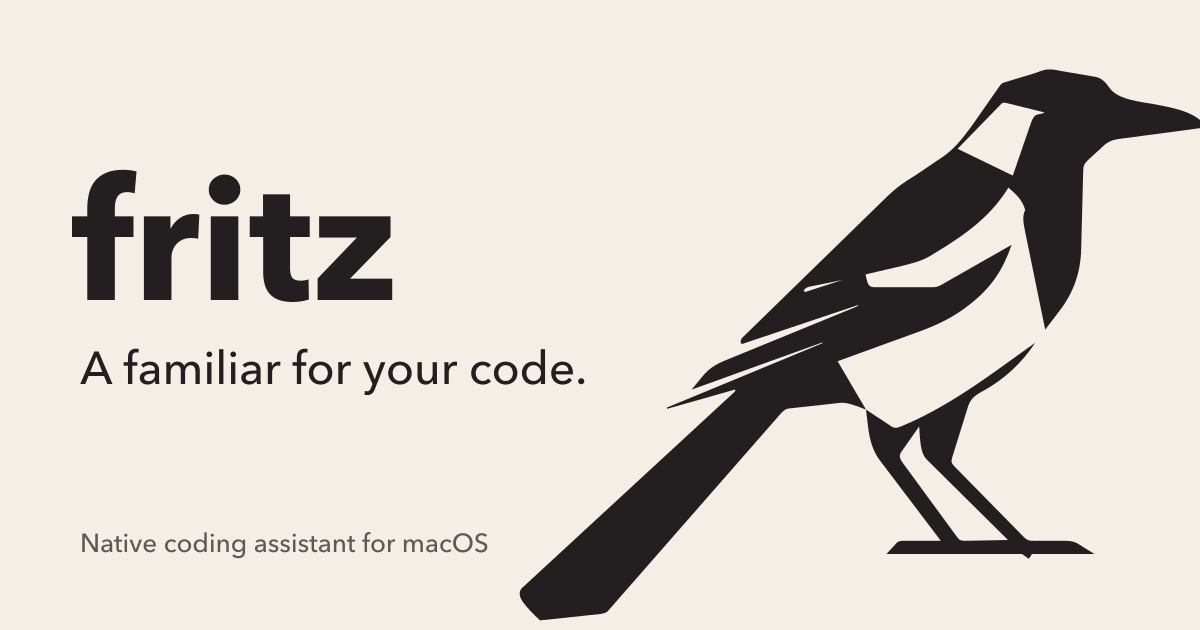
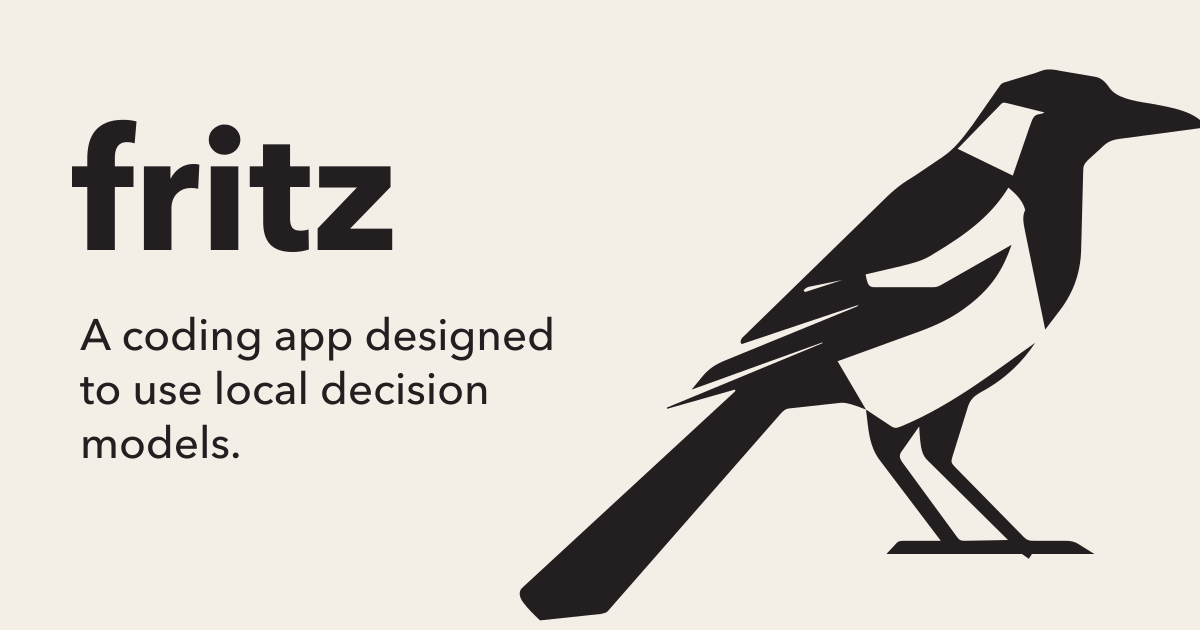
feat: reposition home page around local decision models
Lead with "A coding app designed to use local decision models." and cut
the remaining marketing copy for a technical audience: no native-app
framing, plain section labels, and flat lists for local models,
providers, and CLI usage. The social card carries the same slogan.

Changed region(s): [[0.0617, 0.181, 0.3392, 0.4825], [0.0617, 0.5127, 0.4933, 0.7238], [0.0617, 0.8444, 0.4008, 0.8746]]

diff --git a/website/public/index.html b/website/public/index.html
@@ -3,8 +3,8 @@
 <head>
   <meta charset="utf-8">
   <meta name="viewport" content="width=device-width, initial-scale=1">
-  <title>Fritz — a native coding assistant for macOS</title>
-  <meta name="description" content="Fritz is a Mac app that puts language models to work in your projects. It reads files, makes edits, runs commands, and checks the results.">
+  <title>Fritz — a coding app designed to use local decision models</title>
+  <meta name="description" content="Fritz is a coding app for macOS designed to use local decision models.">
   <meta name="color-scheme" content="light dark">
   <meta name="theme-color" content="#F3EFE7" media="(prefers-color-scheme: light)">
   <meta name="theme-color" content="#121011" media="(prefers-color-scheme: dark)">
@@ -13,13 +13,13 @@
   <link rel="canonical" href="https://fritz.rel.me/">
   <meta property="og:type" content="website">
   <meta property="og:site_name" content="Fritz">
-  <meta property="og:title" content="Fritz — a familiar for your code">
-  <meta property="og:description" content="A native macOS coding assistant. Bring any model, or run one on your Mac.">
+  <meta property="og:title" content="Fritz">
+  <meta property="og:description" content="A coding app designed to use local decision models.">
   <meta property="og:url" content="https://fritz.rel.me/">
   <meta property="og:image" content="https://fritz.rel.me/social.png">
   <meta property="og:image:width" content="1200">
   <meta property="og:image:height" content="630">
-  <meta property="og:image:alt" content="The Fritz raven beside the words: fritz, a familiar for your code.">
+  <meta property="og:image:alt" content="The Fritz raven beside the words: fritz, a coding app designed to use local decision models.">
   <meta name="twitter:card" content="summary_large_image">
   <link rel="stylesheet" href="/styles.css">
   <script type="module" src="/site.mjs"></script>
@@ -35,9 +35,8 @@
       </a>
       <nav aria-label="Sections">
         <ul class="nav-links">
-          <li><a href="#app">App</a></li>
           <li><a href="#models">Models</a></li>
-          <li><a href="#terminal">Terminal</a></li>
+          <li><a href="#cli">CLI</a></li>
           <li><a href="https://github.com/rel-me/fritz">GitHub</a></li>
         </ul>
       </nav>
@@ -49,15 +48,13 @@
     <section class="hero wire" aria-labelledby="hero-title">
       <div class="hero-inner">
         <div class="hero-copy">
-          <p class="eyebrow">Native for macOS</p>
-          <h1 id="hero-title">A <em>familiar</em> for your code.</h1>
-          <p class="lede">Fritz is a Mac app that puts language models to work in your projects. It reads files, makes edits, runs commands, and checks the results.</p>
+          <h1 id="hero-title">A coding app designed to use local decision models.</h1>
           <div class="actions">
             <a class="button" href="/download">
               <svg class="button-icon" viewBox="0 0 20 20" aria-hidden="true"><path d="M10 3v9m0 0-3.5-3.5M10 12l3.5-3.5M4 14.5v1A1.5 1.5 0 0 0 5.5 17h9a1.5 1.5 0 0 0 1.5-1.5v-1" fill="none" stroke="currentColor" stroke-width="1.8" stroke-linecap="round" stroke-linejoin="round"/></svg>
               Download for Mac
             </a>
-            <a class="link-out" href="https://github.com/rel-me/fritz">View on GitHub</a>
+            <a class="link-out" href="https://github.com/rel-me/fritz">GitHub</a>
           </div>
           <p class="meta" data-version>Requires macOS 15 or later.</p>
         </div>
@@ -67,13 +64,7 @@
       </div>
     </section>
 
-    <section class="section" id="app" aria-labelledby="app-title">
-      <div class="section-head" data-reveal>
-        <p class="kicker"><span>01</span>The app</p>
-        <h2 id="app-title">Ask for a change.<br>Watch it happen.</h2>
-        <p class="section-lede">Conversations live with their projects, and every read, edit, and command shows up as Fritz works.</p>
-      </div>
-
+    <section class="section section--demo" aria-label="Example session">
       <figure class="showcase">
         <div class="window" data-play aria-hidden="true">
           <div class="window-bar">
@@ -120,65 +111,59 @@
             </div>
           </div>
         </div>
-        <figcaption class="visually-hidden">An illustration of a Fritz window: a project sidebar with threads, and a thread in which Fritz reads two files, runs a failing test, edits the code, and reruns the test successfully.</figcaption>
+        <figcaption class="visually-hidden">An example Fritz session: a project sidebar with threads, and a thread in which Fritz reads two files, runs a failing test, edits the code, and reruns the test successfully.</figcaption>
       </figure>
     </section>
 
     <section class="section" id="models" aria-labelledby="models-title">
-      <div class="section-head" data-reveal>
-        <p class="kicker"><span>02</span>Models</p>
-        <h2 id="models-title">Bring any model.<br>Or keep one at home.</h2>
-      </div>
+      <h2 id="models-title" data-reveal>Models</h2>
       <div class="models">
         <div class="model-panel" data-reveal>
-          <h3>Connect a provider</h3>
-          <ul class="providers">
+          <h3>Local</h3>
+          <ul class="spec">
+            <li>Download and run models offline</li>
+            <li>Serve installed models through an Ollama-compatible API</li>
+          </ul>
+        </div>
+        <div class="model-panel" data-reveal>
+          <h3>Providers</h3>
+          <ul class="spec">
             <li>OpenAI</li>
             <li>Anthropic</li>
             <li>Google Gemini</li>
             <li>OpenRouter</li>
             <li>Ollama</li>
-            <li>OpenAI-compatible</li>
+            <li>OpenAI-compatible endpoints</li>
+            <li>Presets for Fireworks, Amazon Bedrock Mantle, and Baseten</li>
           </ul>
-          <p>Plus presets for Fireworks, Amazon Bedrock Mantle, and Baseten.</p>
-        </div>
-        <div class="model-panel model-panel--local" data-reveal>
-          <h3>Run one on this Mac</h3>
-          <p class="big-claim">Offline.<br>No API key.</p>
-          <p>Download a model inside Fritz, then use it in the app or serve it to your other tools.</p>
         </div>
       </div>
     </section>
 
-    <section class="section" id="terminal" aria-labelledby="terminal-title">
+    <section class="section" id="cli" aria-labelledby="cli-title">
       <div class="terminal-layout">
         <div class="section-head" data-reveal>
-          <p class="kicker"><span>03</span>Terminal</p>
-          <h2 id="terminal-title">Also answers from the shell.</h2>
-          <p class="section-lede">Install the <code>fritz</code> command from Settings → General → Command Line.</p>
+          <h2 id="cli-title">CLI</h2>
+          <p class="section-lede">Install <code>fritz</code> from Settings → General → Command Line.</p>
         </div>
-        <pre class="terminal" data-reveal><code><span class="comment"># Work in a project from the shell</span>
-<span class="prompt">$</span> fritz chat "Fix the failing test" --project .
-
-<span class="comment"># Install a local model and serve it</span>
+        <pre class="terminal" data-reveal><code><span class="prompt">$</span> fritz chat "Fix the failing test" --project .
 <span class="prompt">$</span> fritz local-models install qwen3-0.6b-q4_k_m
 <span class="prompt">$</span> fritz local-models serve</code></pre>
       </div>
     </section>
 
-    <section class="closing" aria-labelledby="closing-title">
+    <section class="closing" aria-label="Download">
       <div class="wire">
         <div class="perch" aria-hidden="true">
           <div class="raven"></div>
         </div>
       </div>
-      <h2 id="closing-title">Give it a perch.</h2>
       <div class="actions">
         <a class="button" href="/download">
           <svg class="button-icon" viewBox="0 0 20 20" aria-hidden="true"><path d="M10 3v9m0 0-3.5-3.5M10 12l3.5-3.5M4 14.5v1A1.5 1.5 0 0 0 5.5 17h9a1.5 1.5 0 0 0 1.5-1.5v-1" fill="none" stroke="currentColor" stroke-width="1.8" stroke-linecap="round" stroke-linejoin="round"/></svg>
           Download for Mac
         </a>
-        <a class="link-out" href="https://github.com/rel-me/fritz">Build from source</a>
+        <a class="link-out" href="https://github.com/rel-me/fritz">GitHub</a>
       </div>
       <p class="meta" data-version>Requires macOS 15 or later.</p>
     </section>

diff --git a/website/public/styles.css b/website/public/styles.css
@@ -340,7 +340,7 @@ ol {
 
 .hero-inner {
   display: grid;
-  grid-template-columns: minmax(0, 1.1fr) minmax(0, 1fr);
+  grid-template-columns: minmax(0, 1.35fr) minmax(0, 1fr);
   align-items: end;
   gap: clamp(24px, 5vw, 72px);
   max-width: var(--max);
@@ -354,32 +354,11 @@ ol {
   padding-bottom: clamp(40px, 6vw, 72px);
 }
 
-.eyebrow {
-  font: 600 0.8rem/1 var(--font-brand);
-  letter-spacing: 0.18em;
-  text-transform: uppercase;
-  color: var(--ink-3);
-}
-
 h1 {
-  font-size: clamp(3.3rem, 7.4vw, 5.9rem);
+  font-size: clamp(2.05rem, 4.6vw, 3.6rem);
   font-weight: 700;
-  line-height: 0.94;
-  letter-spacing: -0.045em;
-}
-
-h1 em,
-h2 em {
-  font-family: var(--font-text);
-  font-weight: 400;
-  letter-spacing: -0.03em;
-}
-
-.lede {
-  max-width: 31em;
-  font-size: clamp(1.12rem, 1.5vw, 1.3rem);
-  line-height: 1.55;
-  color: var(--ink-2);
+  line-height: 1.02;
+  letter-spacing: -0.035em;
 }
 
 .actions {
@@ -406,37 +385,20 @@ h2 em {
   scroll-margin-top: calc(112px - var(--section-space));
 }
 
+.section--demo {
+  padding-top: clamp(96px, 11vw, 144px);
+}
+
 .section-head {
   display: grid;
-  gap: 24px;
-}
-
-.kicker {
-  display: flex;
-  align-items: center;
-  gap: 0.9em;
-  font: 600 0.78rem/1 var(--font-brand);
-  letter-spacing: 0.18em;
-  text-transform: uppercase;
-  color: var(--ink-3);
-}
-
-.kicker span {
-  color: var(--ink);
-}
-
-.kicker::after {
-  content: "";
-  flex: 0 0 56px;
-  height: 1px;
-  background: var(--rule);
+  gap: 16px;
 }
 
 h2 {
-  font-size: clamp(2.3rem, 5.4vw, 4.5rem);
+  font-size: clamp(1.6rem, 2.6vw, 2.1rem);
   font-weight: 700;
-  line-height: 1;
-  letter-spacing: -0.04em;
+  line-height: 1.1;
+  letter-spacing: -0.025em;
 }
 
 h3 {
@@ -447,7 +409,6 @@ h3 {
 
 .section-lede {
   max-width: 36em;
-  font-size: clamp(1.08rem, 1.5vw, 1.25rem);
   line-height: 1.6;
   color: var(--ink-2);
 }
@@ -461,7 +422,7 @@ h3 {
 /* App illustration */
 
 .showcase {
-  margin: clamp(48px, 7vw, 88px) 0 0;
+  margin: 0;
 }
 
 .window {
@@ -698,17 +659,14 @@ h3 {
 .models {
   display: grid;
   grid-template-columns: minmax(0, 1fr) minmax(0, 1fr);
-  gap: clamp(20px, 3vw, 32px);
-  margin-top: clamp(48px, 6vw, 72px);
+  align-items: start;
+  gap: 32px clamp(32px, 5vw, 72px);
+  margin-top: clamp(24px, 3vw, 36px);
 }
 
 .model-panel {
   display: grid;
-  align-content: start;
-  gap: 20px;
-  padding: clamp(24px, 4vw, 44px);
-  border: 1px solid var(--rule);
-  border-radius: 18px;
+  gap: 12px;
 }
 
 .model-panel h3 {
@@ -718,37 +676,14 @@ h3 {
   color: var(--ink-3);
 }
 
-.providers li {
+.spec li {
   padding: 10px 0;
-  border-bottom: 1px solid var(--rule);
-  font: 600 clamp(1.35rem, 2.6vw, 1.9rem)/1.15 var(--font-brand);
-  letter-spacing: -0.025em;
-}
-
-.providers li:first-child {
   border-top: 1px solid var(--rule);
+  font: 500 1.05rem/1.4 var(--font-brand);
 }
 
-.model-panel p {
-  color: var(--ink-2);
-}
-
-.model-panel--local {
-  align-content: space-between;
-  background: var(--ink);
-  border-color: var(--ink);
-  color: var(--paper);
-}
-
-.model-panel--local h3,
-.model-panel--local p {
-  color: color-mix(in srgb, var(--paper) 72%, transparent);
-}
-
-.model-panel--local .big-claim {
-  font: italic 400 clamp(2.4rem, 5vw, 4rem)/1.02 var(--font-text);
-  letter-spacing: -0.02em;
-  color: var(--paper);
+.spec li:last-child {
+  border-bottom: 1px solid var(--rule);
 }
 
 /* Terminal */
@@ -777,10 +712,6 @@ h3 {
   font-size: inherit;
 }
 
-.terminal .comment {
-  color: #8d847e;
-}
-
 .terminal .prompt {
   color: #9db7e8;
   user-select: none;
@@ -807,17 +738,9 @@ h3 {
   width: clamp(150px, 20vw, 220px);
 }
 
-.closing h2,
-.closing .actions {
-  padding-inline: var(--gutter);
-}
-
 .closing .actions {
   justify-content: center;
-}
-
-.closing h2 {
-  font-size: clamp(2.6rem, 6.4vw, 5.2rem);
+  padding-inline: var(--gutter);
 }
 
 /* Footer */

diff --git a/design/branding/export.py b/design/branding/export.py
@@ -101,7 +101,7 @@ ET.SubElement(card, f"{{{SVG}}}rect", {"width": "1200", "height": "630", "fill":
 ET.SubElement(card, f"{{{SVG}}}g", {
     "transform": "translate(520 70) scale(.4)",
 }).append(artwork())
-text(card, "fritz", 72, 300, 168, "#231F20", "700")
-text(card, "A familiar for your code.", 80, 384, 46, "#231F20", "500")
-text(card, "Native coding assistant for macOS", 80, 552, 26, "#5E5856", "500")
+text(card, "fritz", 72, 250, 168, "#231F20", "700")
+for line, y in (("A coding app designed", 350), ("to use local decision", 404), ("models.", 458)):
+    text(card, line, 80, y, 44, "#231F20", "500")
 render_png(card, WEBSITE / "social.png", 1200, 630)
